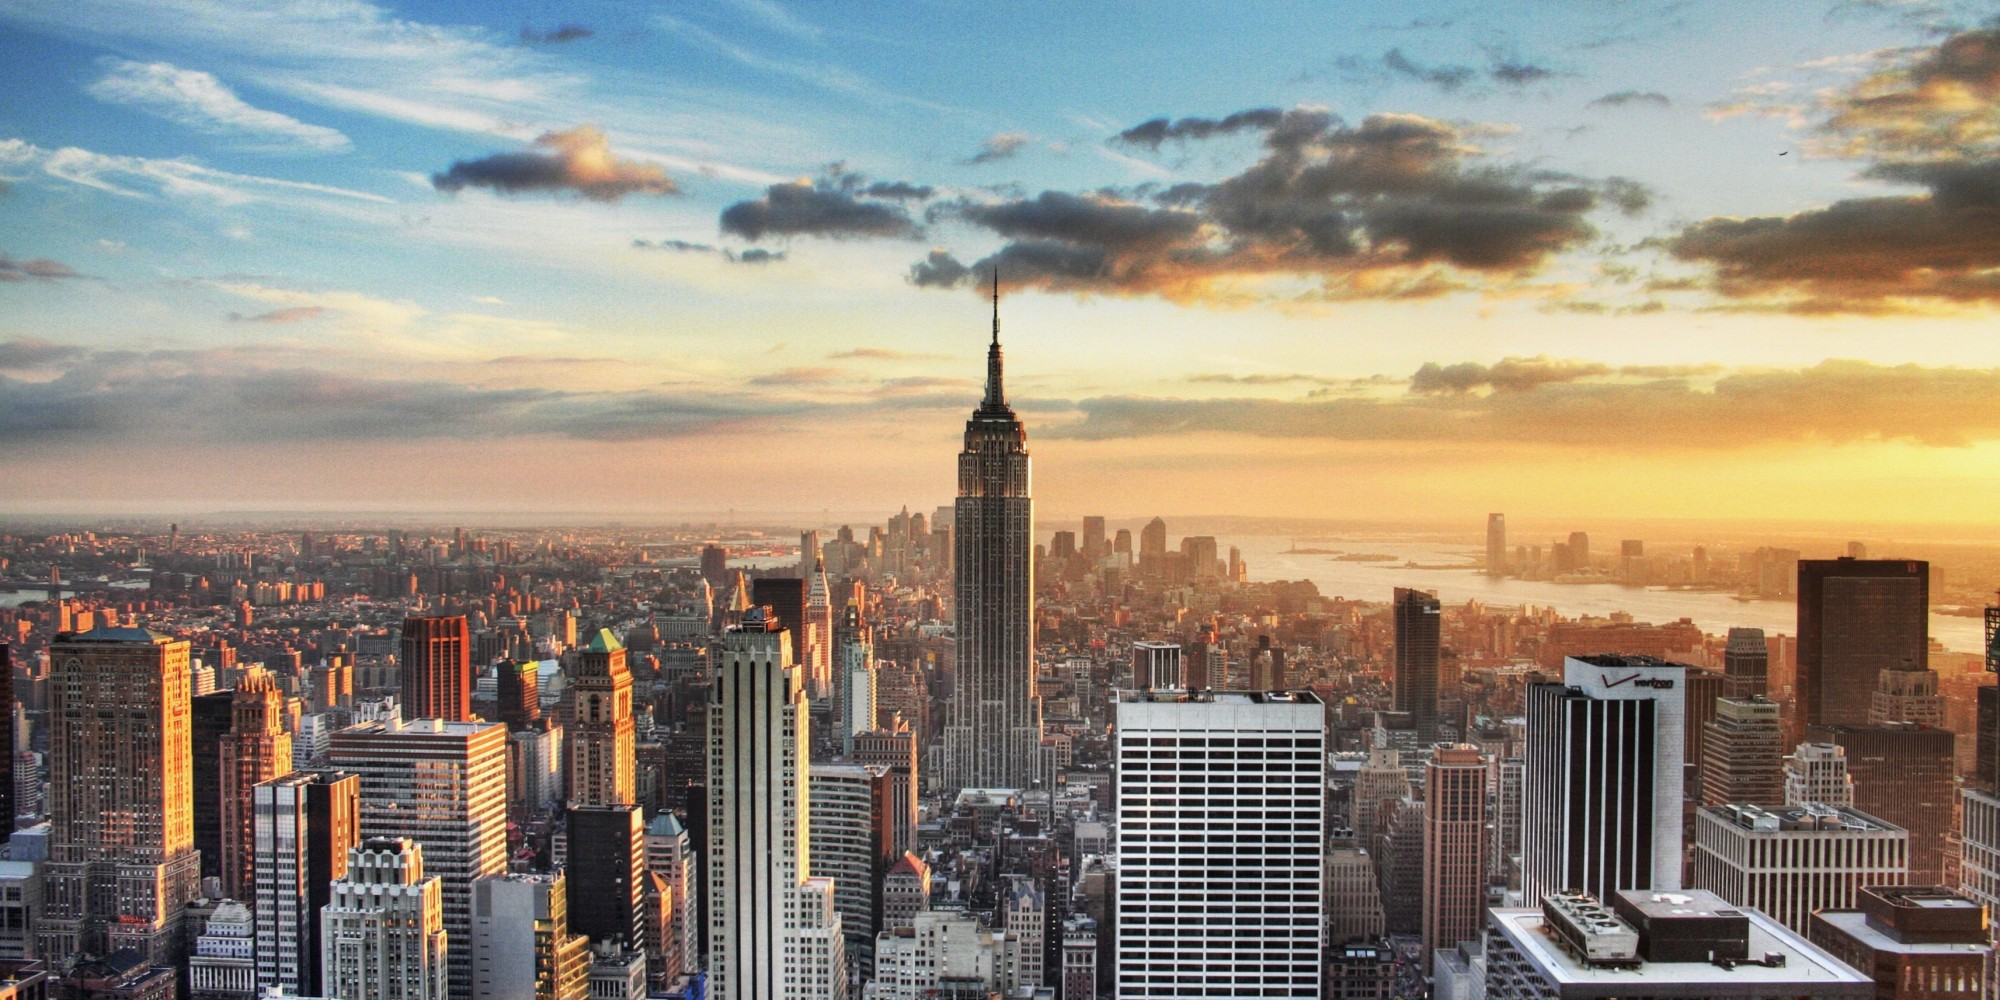
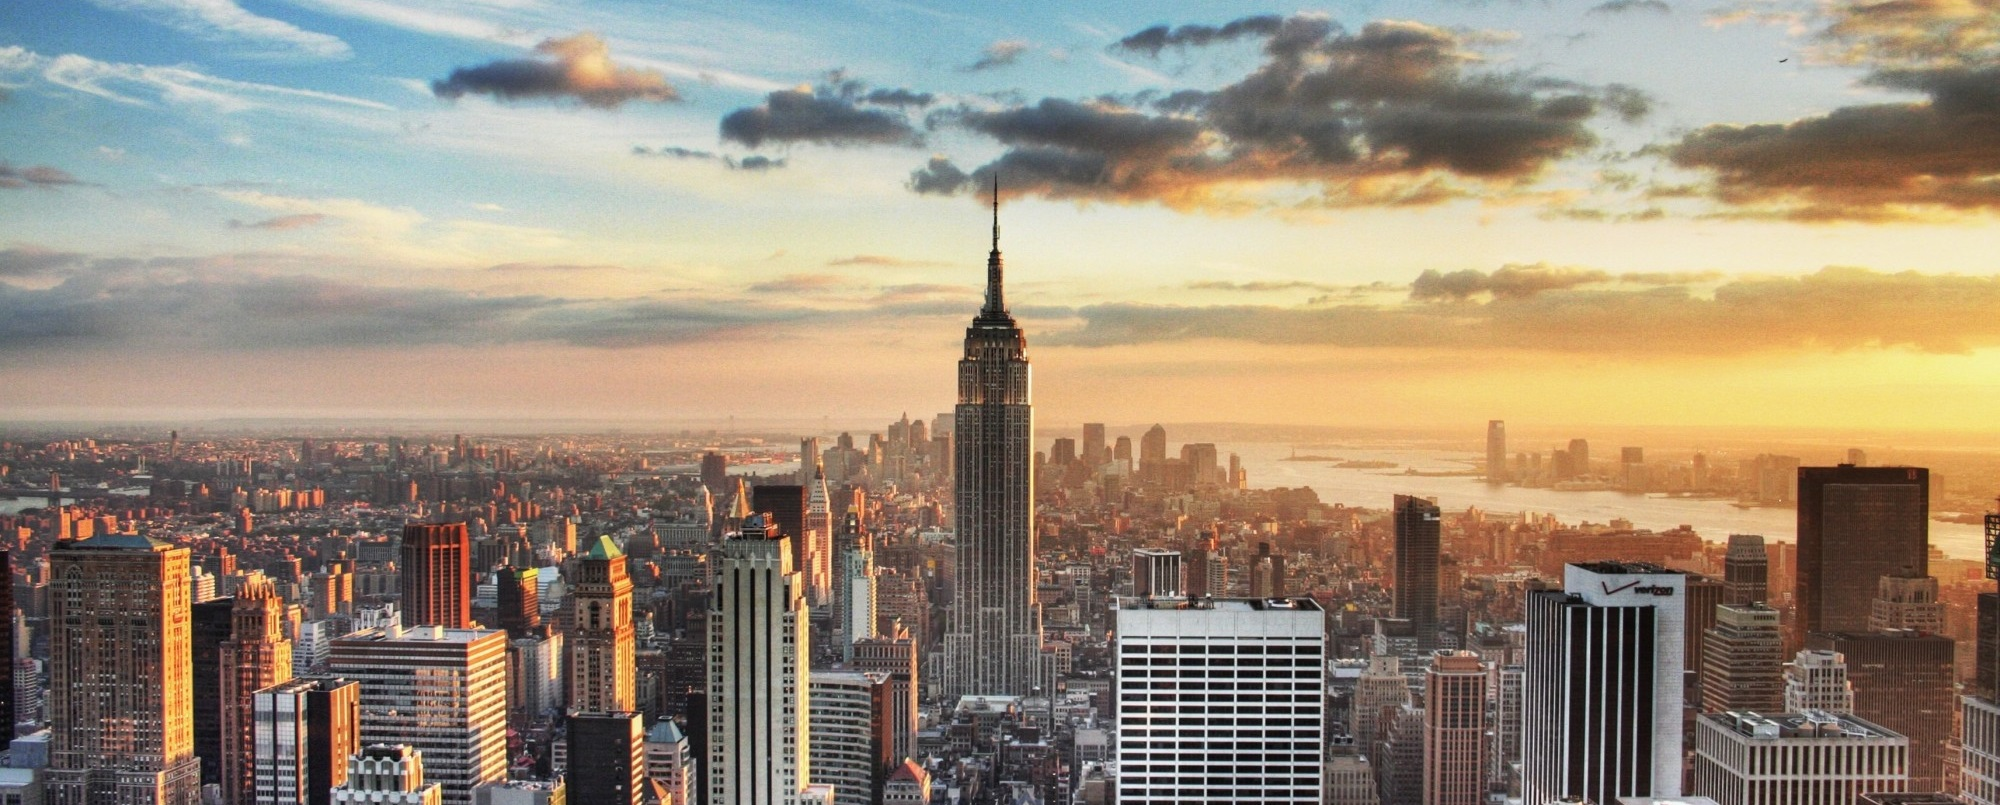
Add "Check Reservation" on top menu

diff --git a/HotelManagementSystem/Content/Hotel.css b/HotelManagementSystem/Content/Hotel.css
@@ -8,11 +8,11 @@ div {
 }
 
 #topframe {
-    padding-top: 30px;
+    padding-top: 10px;
     padding-left: 10px;
     padding-right: 10px;
     padding-bottom: 10px;
-    margin-bottom: 30px;
+    margin-bottom: 15px;
     font-size: 15px;
     font-weight: 200;
     line-height: 2;
@@ -23,7 +23,8 @@ div {
 #cover_img {
     display:block;
     margin:auto;
-    width: 95%;
+    height: 100%;
+    width: 100%;
     border-radius: 8px;
 }
 #check_menu {
@@ -40,11 +41,9 @@ h2 {
     line-height: 1.1;
 }
 h3{
-    padding-top: 20px;
     margin-top:10px;
 }
 h4 {
-    padding-top: 20px;
     margin-top:10px;
     font-family: Sansation_Light;
     font-weight: 500;
@@ -106,7 +105,7 @@ h4 {
 	cursor:pointer;
 	color:#ffffff;
 	font-size:15px;
-	padding:6px 20px;
+	padding:3px 15px;
 	text-decoration:none;
 	text-shadow:0px 1px 0px #283966;
     margin-left:20px;
@@ -225,4 +224,16 @@ table tr:hover td {
 	background: #f2f2f2;
 	background: -webkit-gradient(linear, left top, left bottom, from(#f2f2f2), to(#f0f0f0));
 	background: -moz-linear-gradient(top,  #f2f2f2,  #f0f0f0);	
+}
+.check-reservation {
+    color: #777777;
+    margin-top: 0px;
+    padding: 0px;
+}
+.body-content {
+    padding-top: 70px;
+}
+.resizedTextbox {
+    width: 100px; 
+    height: 20px;
 }

diff --git a/HotelManagementSystem/Content/bootstrap.css b/HotelManagementSystem/Content/bootstrap.css
@@ -1582,8 +1582,8 @@ pre code {
   overflow-y: scroll;
 }
 .container {
-  padding-right: 15px;
-  padding-left: 15px;
+  padding-right: 10px;
+  padding-left: 10px;
   margin-right: auto;
   margin-left: auto;
 }
@@ -4275,7 +4275,7 @@ select[multiple].input-group-sm > .input-group-btn > .btn {
   float: left;
   height: 50px;
   padding: 15px 15px;
-  font-size: 18px;
+  font-size: 25px;
   line-height: 20px;
 }
 .navbar-brand:hover,

diff --git a/HotelManagementSystem/Controllers/HomeController.cs b/HotelManagementSystem/Controllers/HomeController.cs
@@ -155,8 +155,8 @@ namespace HotelManagementSystem.Controllers
                         r.city = rvm.city;
                         r.state = rvm.state;
                         r.zip = rvm.zip;
-                        // what should be in bill?
                         r.bill = rvm.bill;
+                        r.guestsInfo = rvm.guestInfo;
                         r.RoomTypeId = rvm.roomId;
                         //r.People.Id = 1;
                         // Chck if user has login id
@@ -182,26 +182,39 @@ namespace HotelManagementSystem.Controllers
             }
             rvm.roomType = room.type;
             rvm.roomGuest = room.maxGuests;
+            //rvm.listPrice = rvm.listPrice;
             return View("Book", rvm);
         }
         public ActionResult Room()
         {
-            ViewBag.Message = "Room page.";
-            return View();
+            ViewBag.Message = "Rooms & Suites";
+            List<RoomType> roomTypes = new List<RoomType>();
+            using (var roomtypecontext = new DataModel.HotelDatabaseContainer())
+            {
+                roomTypes = roomtypecontext.RoomTypes.ToList();
+            }
+            return View(roomTypes);
         }
         public ActionResult About()
         {
-            ViewBag.Message = "About page.";
+            ViewBag.Message = "About";
             return View();
         }
-        public ActionResult Contact()
+        public ActionResult Location()
         {
-            ViewBag.Message = "Contact page.";
+            ViewBag.Message = "Location";
             return View();
         }
         public ActionResult Confirm(ReservationDetailViewModel rvm)
         {
-            ViewBag.Message = "Confirm page.";
+            ViewBag.Message = "Confirm";
+            return View();
+        }
+
+        public ActionResult Check(String confirmationid, String email)
+        {
+            ViewBag.Message = "Check My Reservation";
+
             return View();
         }
 
